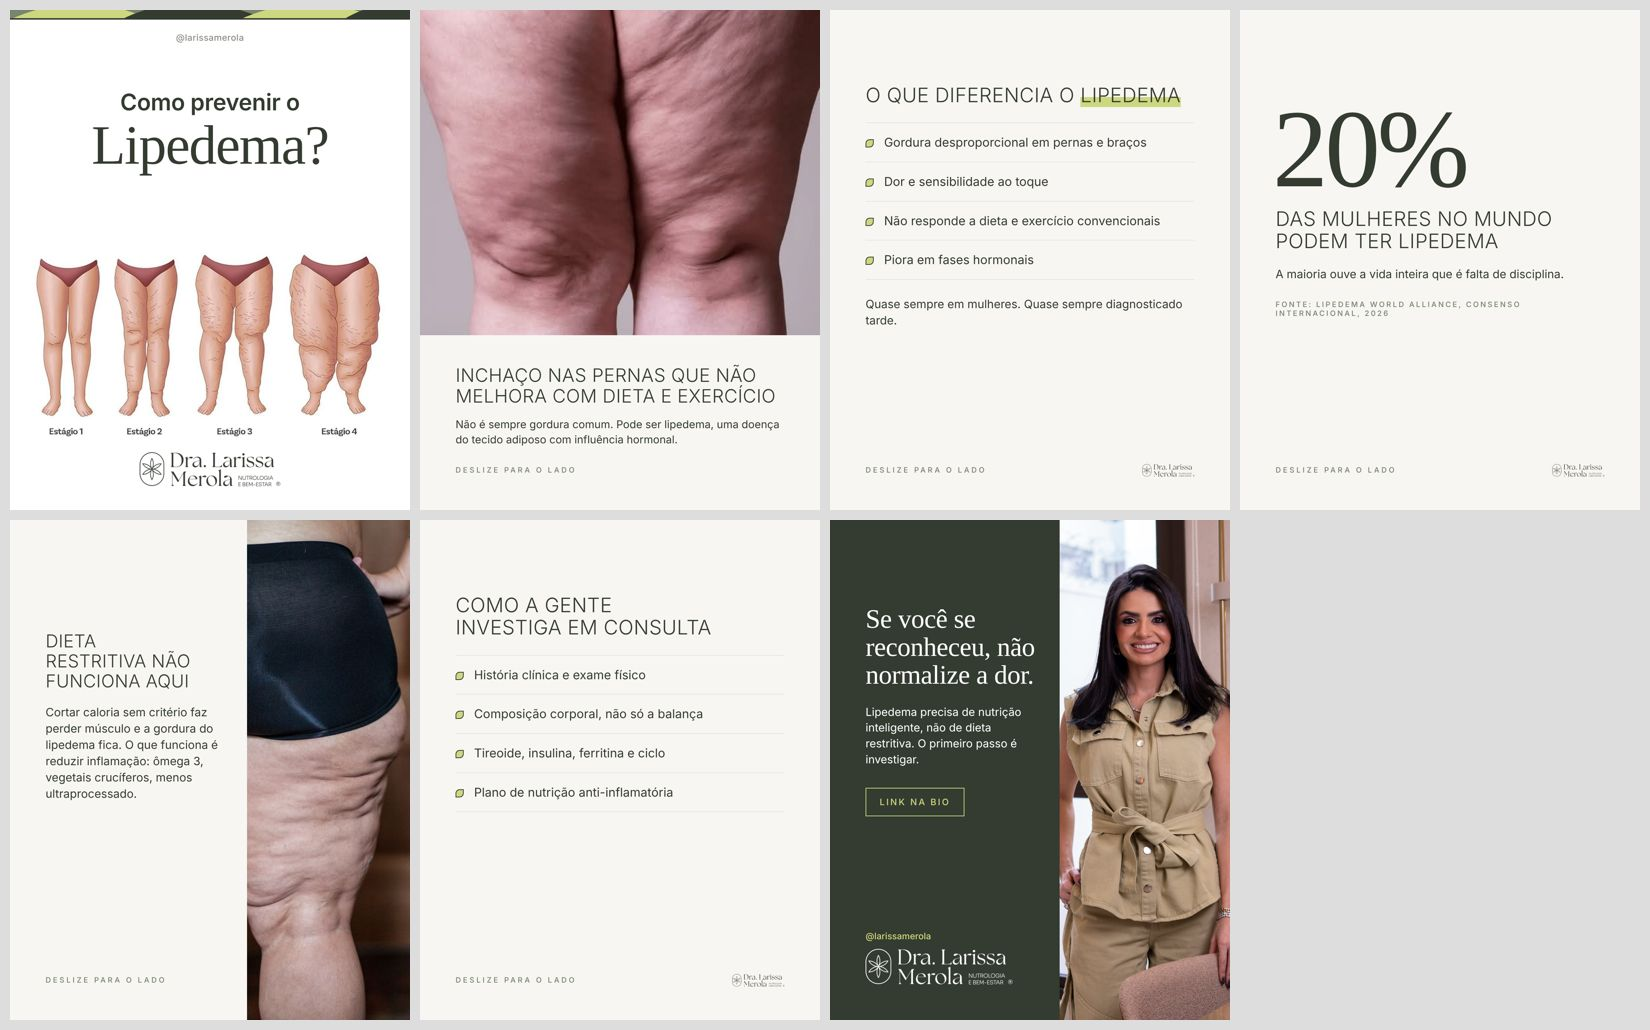
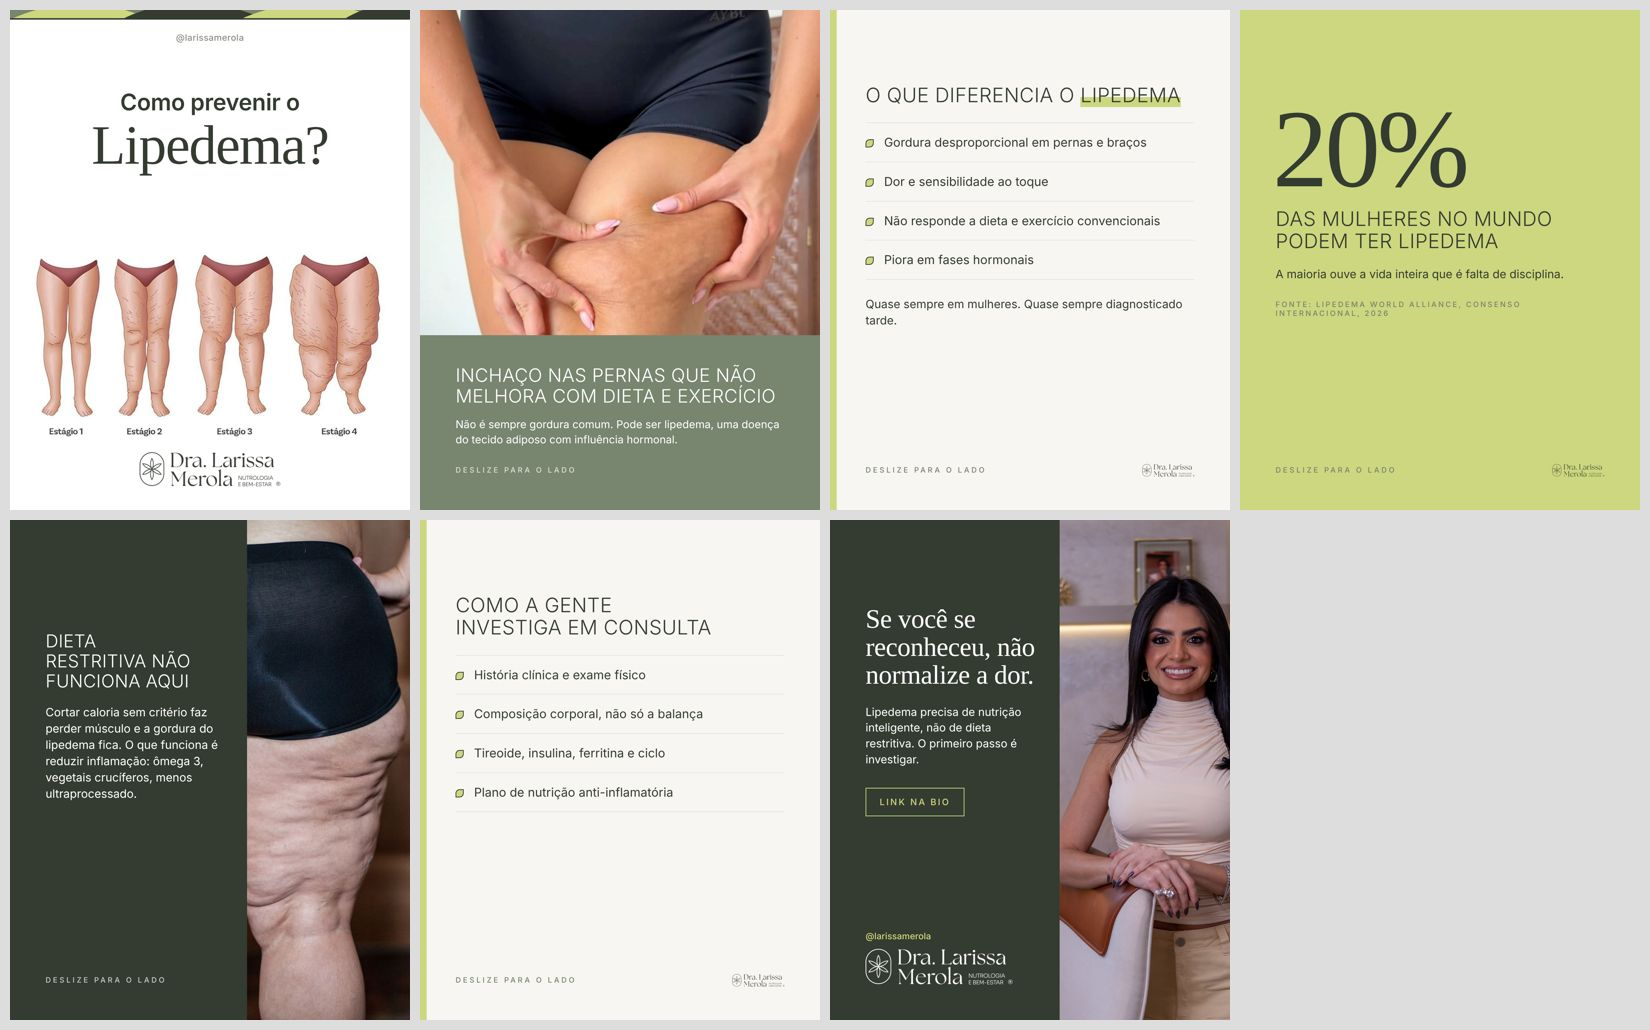
Temas de cor por slide (papel, claro, musgo, saúde) com mescla automática
Claude-Session: https://claude.ai/code/session_01WN8xztW6W2hHDkg5MavPGS

diff --git a/larissa-merola/capa/carrossel.css b/larissa-merola/capa/carrossel.css
@@ -64,3 +64,36 @@ p { margin: 0; font-size: 31px; line-height: 1.42; font-weight: 400; }
 .d .logo { position: absolute; left: 96px; bottom: 96px; }
 .d .logo img { height: 96px; }
 .d .arroba { position: absolute; left: 96px; bottom: 212px; font-size: 24px; color: var(--saude); font-weight: 500; }
+
+/* ---- Temas de cor por slide: papel (padrão), claro, musgo, saude ------------- */
+.t-claro { background: var(--claro); color: var(--branco); }
+.t-musgo { background: var(--musgo); color: var(--branco); }
+.t-saude { background: var(--saude); color: var(--musgo); }
+
+.t-claro .deslize, .t-musgo .deslize { color: rgba(255,255,255,.72); }
+.t-saude .deslize { color: var(--claro); }
+.t-claro .grifo { background: linear-gradient(transparent 58%, var(--saude) 58%); color: var(--musgo); }
+.t-musgo .grifo { background: linear-gradient(transparent 58%, var(--saude) 58%); color: var(--musgo); }
+.t-saude .grifo { background: linear-gradient(transparent 58%, var(--branco) 58%); }
+
+.t-claro.b li, .t-musgo.b li { border-color: rgba(255,255,255,.28); }
+.t-saude.b li { border-color: rgba(52,59,48,.28); }
+.t-claro.b li i, .t-musgo.b li i { background: var(--saude); border-color: var(--branco); }
+.t-saude.b li i { background: var(--branco); border-color: var(--musgo); }
+
+.t-musgo.c .numero { color: var(--saude); }
+.t-claro.c .numero { color: var(--branco); }
+.t-saude.c .numero { color: var(--musgo); }
+.t-claro.c .fonte, .t-musgo.c .fonte { color: rgba(255,255,255,.7); }
+.t-saude.c .fonte { color: var(--claro); }
+
+.t-claro.a .foto { background: var(--musgo); }
+.t-musgo.a .foto { background: var(--claro); }
+.t-saude.a .foto { background: var(--claro); }
+.t-claro.e .faixa-texto { background: var(--claro); }
+.t-musgo.e .faixa-texto { background: var(--musgo); }
+.t-saude.e .faixa-texto { background: var(--saude); }
+
+/* barra lateral fina como acento nos slides de papel, pra não ficar só branco */
+.t-papel::before { content: ""; position: absolute; left: 0; top: 0; bottom: 0; width: 18px; background: var(--saude); }
+.t-papel.a::before, .t-papel.e::before { display: none; }

diff --git a/larissa-merola/capa/README.md b/larissa-merola/capa/README.md
@@ -62,6 +62,11 @@ usar todas (estado em `banco/uso.json`). O tipo D (fechamento) usa foto da Dra. 
 padrão e é sempre o último. Nem todo slide precisa de foto: B e C são só texto de
 propósito, pra dar respiro.
 
+Cor: cada slide tem um `tema` (`papel`, `claro`, `musgo`, `saude`). Sem `tema` no JSON
+o gerador mescla sozinho (claro, papel, saúde, musgo, papel, saúde...), o fechamento é
+sempre musgo, e fundo escuro usa texto branco e a logo branca. Slides de papel levam
+uma barra fina em verde saúde na borda esquerda.
+
 Viúvas: `tipografia.js` junta as duas últimas palavras de todo título com espaço
 inquebrável, e os títulos usam `text-wrap: balance`. Nenhuma linha final fica com
 uma palavra só.
